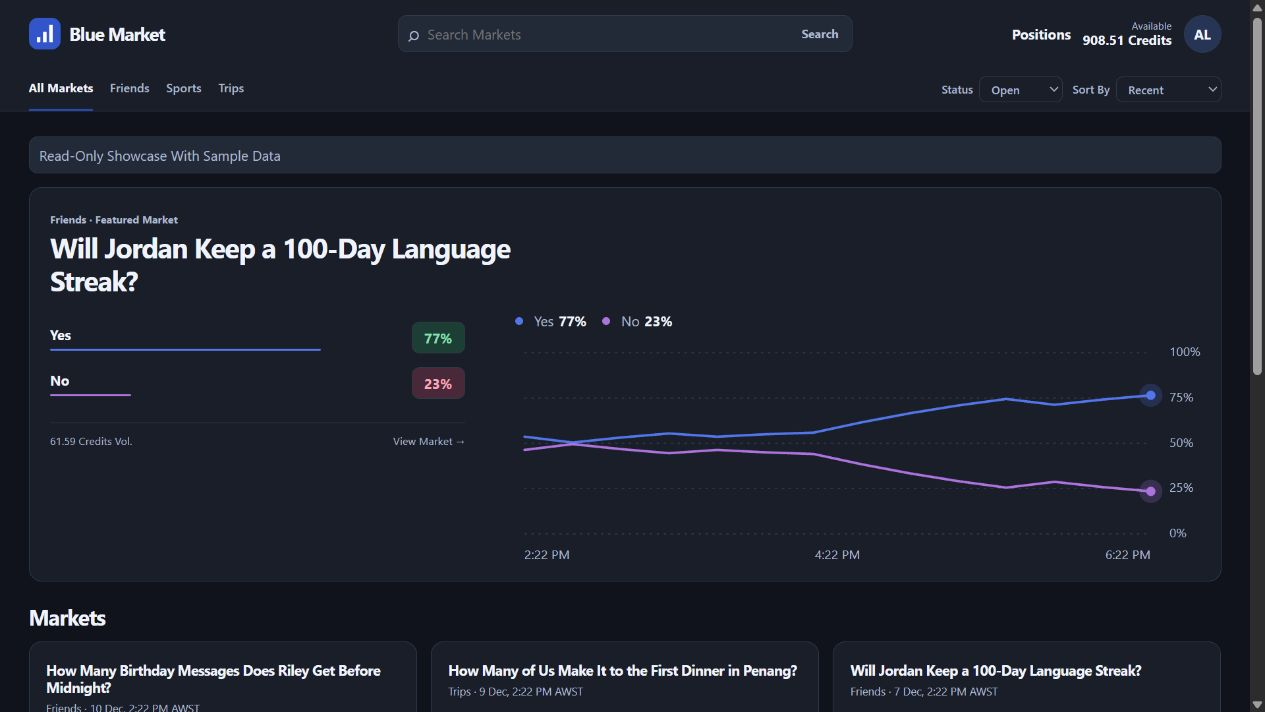
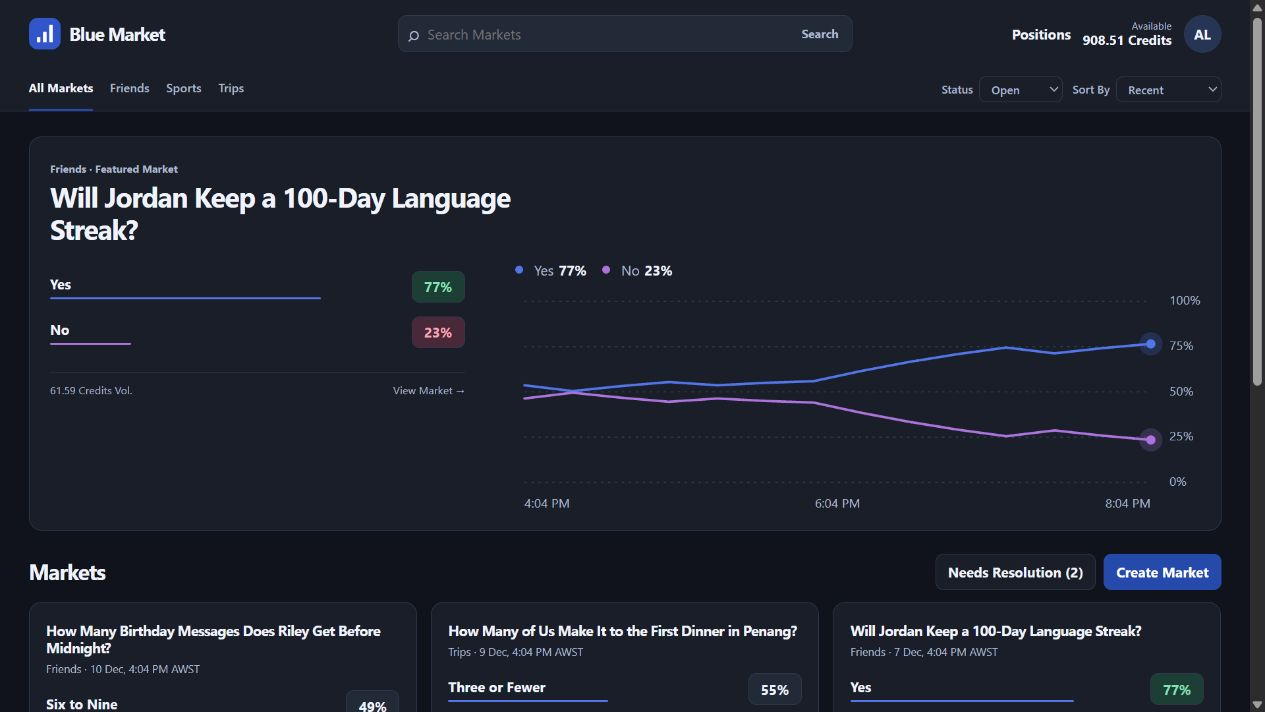
Refresh Blue Market Documentation and Screenshots

diff --git a/public/app.js b/public/app.js
@@ -242,7 +242,7 @@ function eventPage({item,history,positions}) {
     '</div><aside class="panel ticket">'+(settled?settlementPanel(item,positions):trade?'<div class="trade-tabs"><button type="button" data-side="buy">Buy</button><button type="button" data-side="sell">Sell</button></div>'+
       '<form class="form-panel" id="order">'+select('Outcome','outcome',item.labels.map((name,i)=>[String(i),name]),String(index))+
       inp('Shares','shares',sell?Math.max(1,Math.min(500,positions.find(row=>row.outcome===index)?.shares||1)):10,'number','required min="1" max="500"')+
-      '<div class="quote" id="quote"></div>'+btn('Place Trade')+message+'</form>':open&&app.showcase?'<div class="form-panel"><h2>Showcase</h2><p>'+(app.hostedDemo?'Enter the Demo to Try Trading.':'Trading Is Available in a Self-Hosted Instance.')+'</p></div>':open?'<div class="form-panel"><h2>Trade</h2><a class="btn primary" href="/sign-in">Sign In to Trade</a></div>':
+      '<div class="quote" id="quote"></div>'+btn('Place Trade')+message+'</form>':open&&app.showcase?'<div class="form-panel"><h2>Market Details</h2><p>Closes '+h(date(item.closes))+'</p></div>':open?'<div class="form-panel"><h2>Trade</h2><a class="btn primary" href="/sign-in">Sign In to Trade</a></div>':
       '<div class="form-panel"><h2>'+(item.archived?'Archived':statusNames[item.status])+'</h2><p>Trading Is Closed.</p></div>')+'</aside></div>';
   const plot=document.querySelector('#history');
   drawMarketChart(plot,item,history);
@@ -633,7 +633,7 @@ async function admin() {
   });
 }
 function demoEntry() {
-  main.insertAdjacentHTML('afterbegin','<form class="demo-entry" id="demo"><span>Explore With a Sample Account.</span>'+btn('Enter the Demo')+message+'</form>');
+  main.insertAdjacentHTML('afterbegin','<form class="demo-entry" id="demo">'+btn('Enter the Demo')+message+'</form>');
   bind(document.querySelector('#demo'),async()=>{await api('/demo',{});location.assign('/');});
 }
 async function start() {
@@ -663,7 +663,6 @@ async function start() {
   if(!app.user&&!app.cfg.browse)return auth(false);
   if(path.startsWith('/market/'))return eventPage(await api(path));
   feed(await api('/feed'));
-  if(app.showcase&&!app.hostedDemo) main.insertAdjacentHTML('afterbegin','<p class="demo-entry">Read-Only Showcase With Sample Data</p>');
   if(!app.user&&(app.demo||app.hostedDemo)) demoEntry();
 }
 start().catch(error=>{main.innerHTML='<section class="panel empty">'+title('Unable to Open This Page',error.message)+'<a class="btn" href="/">Back to Markets</a></section>';});

diff --git a/README.md b/README.md
@@ -1,71 +1,50 @@
 # Blue Market
 
-Blue Market is a self-hosted prediction market for friends, clubs, and communities. Use virtual credits to trade on anything from match results to group plans. Customize the branding, market categories, and access rules in the admin panel.
-
-![Blue Market homepage with fictional markets](docs/screenshots/markets.jpg)
-
-## Features
-
-- **Markets** — Create binary or multiple-outcome questions, set a trading deadline, and resolve or void markets.
-- **Trading** — Buy and sell shares with virtual credits, inspect price history, and track positions and payouts.
-- **Administration** — Configure branding and sign-ups, manage account roles and balances, and control who can create and resolve markets.
-- **Standings** — Track positions, win percentage, realized P&L, and net worth. Control access to the leaderboard and audit log in Admin.
-
-## Installation
-
-### Docker
-
-Run from the repository directory:
-
-```sh
-docker build -t blue-market .
-docker run --name blue-market -p 3000:3000 -v blue-market-data:/data blue-market
-```
-
-Open [http://localhost:3000](http://localhost:3000). The Docker volume keeps the database between container replacements.
-
-### Node.js
-
-Use **Node.js 24**. The app has no npm dependencies.
-
-```sh
-node server.js
-```
-
-Open [http://localhost:3000](http://localhost:3000). On Pterodactyl, set the startup file to `server.js` and open the assigned address. Keep the `data/` directory when updating.
-
-### Render
+Host a prediction market for your friends, club, or community. Set up your site, make it your own in Admin, and trade on your own questions with virtual credits.
 
 [![Deploy to Render](https://render.com/images/deploy-to-render-button.svg)](https://render.com/deploy?repo=https%3A%2F%2Fgithub.com%2FKalebChristian%2FBlue-Market)
 
-Requires a paid service with persistent storage.
+![Blue Market home with market cards and a featured price chart](docs/screenshots/markets.jpg)
 
-## First run
+## Features
 
-1. Open the app and create your admin account with the one-time setup code from the server logs.
-2. In **Admin**, customize your site and choose whether to open sign-ups or create accounts yourself.
-3. Select **Create Market**, add a question and outcomes, and set the closing time and resolution rules.
+* Virtual credit trading
+* Yes or no markets and markets with multiple outcomes
+* Interactive price charts
+* Positions, payouts, and trade history
+* Leaderboard and audit log
+* Custom name, logo, colors, and currency
+* Sign Ups, account roles, and market permissions
 
-To try the app with fictional data on your computer, run `npm run demo` and choose **Enter the Demo**. Demo changes are cleared when the process stops.
+## Installation
 
-## Leaderboard
-
-![Blue Market leaderboard with fictional account standings](docs/screenshots/leaderboard.jpg)
-
-## Configuration
-
-| Variable | Purpose |
+| Platform | Requirements |
 | --- | --- |
-| `BLUE_DATA` | SQLite data directory. Defaults to `data/`, or `/data` in Docker. |
-| `SERVER_PORT` | Listening port. Takes precedence over `PORT`. |
-| `PORT` | Listening port when `SERVER_PORT` is unset. Defaults to `3000`. |
-| `BLUE_SETUP_CODE` | Optional private first-run code. Otherwise the server generates one. |
+| Render | A paid web service with persistent storage |
+| Docker | A machine running Docker |
+| Node.js or Pterodactyl | Node.js 24 |
 
-Run one instance per database. To back up a running instance, use `node server.js --backup /path/to/backup.sqlite` with the same `BLUE_DATA` as the app. To restore, stop the app and place the backup in a clean data directory as `market.sqlite`.
+See the [deployment guide](docs/deployment.md) for Docker, Render, and Pterodactyl instructions. After startup, open the app and create your admin account using the setup code in the server logs.
+
+## Screenshots
+
+<p>
+  <img src="docs/screenshots/trading.jpg" width="49%" alt="Market detail with an interactive price chart and trading controls">
+  <img src="docs/screenshots/positions.jpg" width="49%" alt="Positions with account value, profit and loss, and holdings">
+</p>
+<p>
+  <img src="docs/screenshots/admin.jpg" width="49%" alt="Admin appearance settings with a branding preview">
+  <img src="docs/screenshots/leaderboard.jpg" width="49%" alt="Leaderboard with ranked accounts and trading statistics">
+</p>
 
 ## Development
 
-Run `npm test` to check first-run setup, trading, settlement, and access controls.
+```sh
+npm run demo
+npm test
+```
+
+The demo runs locally at [http://localhost:3000](http://localhost:3000) and resets when stopped.
 
 ## License
 

diff --git a/docs/deployment.md b/docs/deployment.md
@@ -1,0 +1,47 @@
+# Deployment
+
+Blue Market has no npm dependencies. A fresh installation starts with an empty database.
+
+## Render
+
+Use the [Deploy to Render button](https://render.com/deploy?repo=https%3A%2F%2Fgithub.com%2FKalebChristian%2FBlue-Market). The blueprint creates a paid web service and a disk mounted at `/data`. Review the cost before deploying. If the repository is private, grant Render access before using the button.
+
+## Docker
+
+From the repository directory:
+
+```sh
+docker build -t blue-market .
+docker run --name blue-market -p 3000:3000 -v blue-market-data:/data blue-market
+```
+
+Open [http://localhost:3000](http://localhost:3000). Keep the `blue-market-data` volume when replacing the container.
+
+## Node.js and Pterodactyl
+
+Install Node.js 24, then run:
+
+```sh
+node server.js
+```
+
+On Pterodactyl, extract the source into the server root and set the startup file to `server.js`. Open the assigned web address after starting. Keep the `data/` directory when updating.
+
+## First run
+
+1. Copy the setup code from your server logs and use it to create the first admin account.
+2. In **Admin**, customize your site and choose whether to open Sign Ups or create accounts yourself.
+3. Select **Create Market**, add the outcomes, and set the closing time and resolution rules.
+
+## Configuration
+
+| Variable | Purpose |
+| --- | --- |
+| `BLUE_DATA` | SQLite data directory. Defaults to `data/`, or `/data` in Docker. |
+| `SERVER_PORT` | Listening port. Takes precedence over `PORT`. |
+| `PORT` | Listening port when `SERVER_PORT` is unset. Defaults to `3000`. |
+| `BLUE_SETUP_CODE` | Optional private setup code. The server generates one by default. |
+
+## Backups
+
+Run one instance per SQLite database and store its data on a persistent disk. To back up a running instance, use `node server.js --backup /path/to/backup.sqlite` with the same `BLUE_DATA` as the app. To restore, stop the app and place the backup in a clean data directory as `market.sqlite`.
